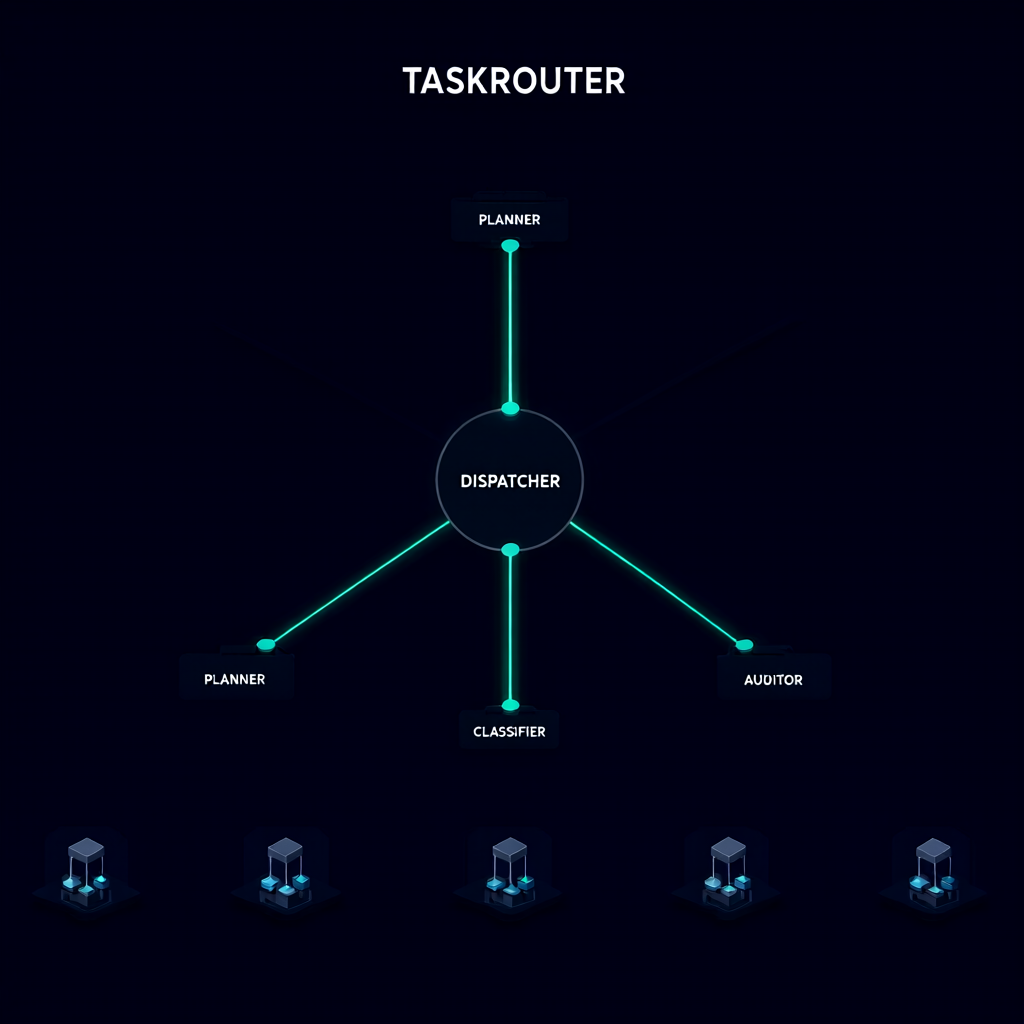
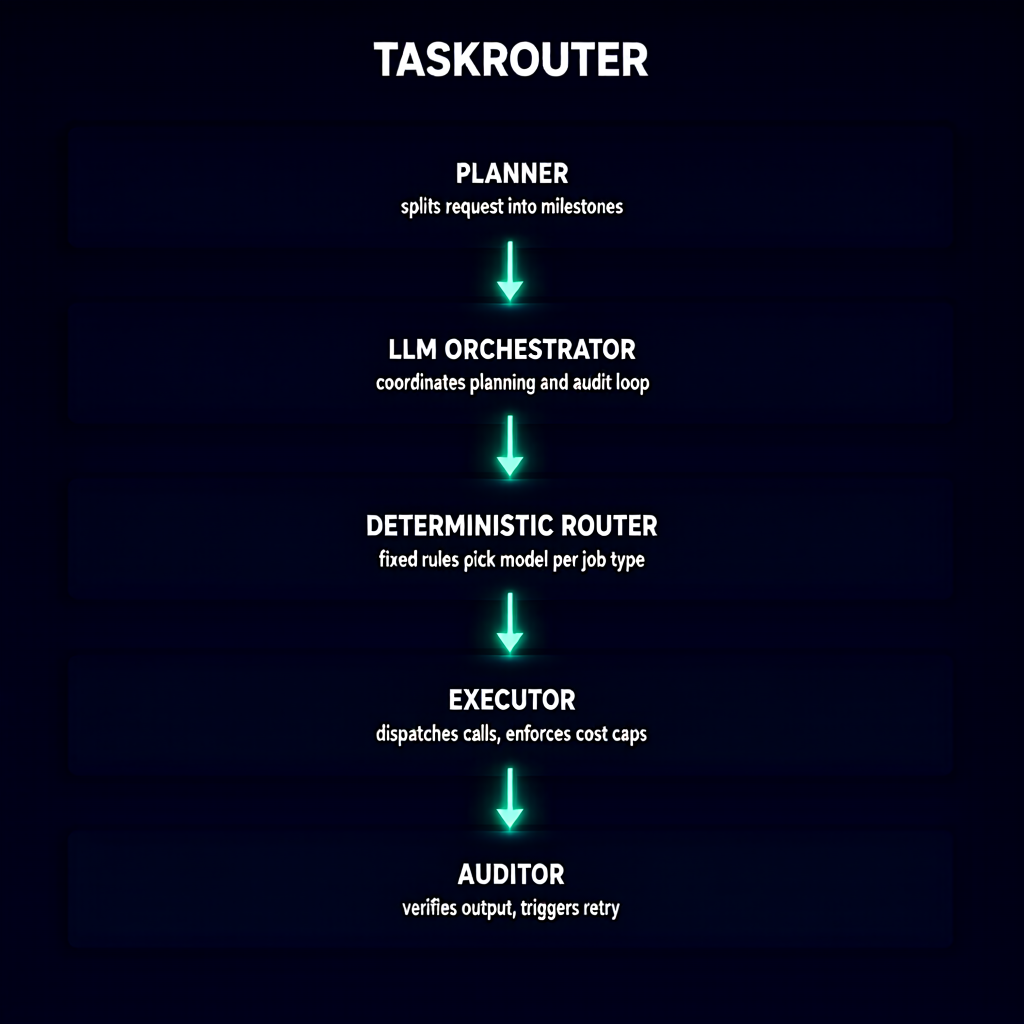
Use layered architecture diagram for TaskRouter card

diff --git a/index.html b/index.html
@@ -357,7 +357,7 @@
       </div>
       <div class="card reveal">
         <div class="preview">
-          <a href="assets/taskrouter_architecture.png"><img src="assets/taskrouter_architecture.png" alt="TaskRouter architecture: Dispatcher hub connected to Planner, Classifier and Auditor nodes, routing jobs out to multiple AI model providers" loading="lazy" /></a>
+          <a href="assets/taskrouter_architecture.png"><img src="assets/taskrouter_architecture.png" alt="TaskRouter layered architecture: Planner splits requests into milestones, LLM Orchestrator coordinates the planning and audit loop, Deterministic Router picks the model per job type by fixed rules, Executor dispatches calls and enforces cost caps, Auditor verifies output and triggers retries" loading="lazy" /></a>
         </div>
         <div class="tag">LLM orchestration / Python + ModernBERT</div>
         <h3>TaskRouter - multi-model AI orchestration engine</h3>
